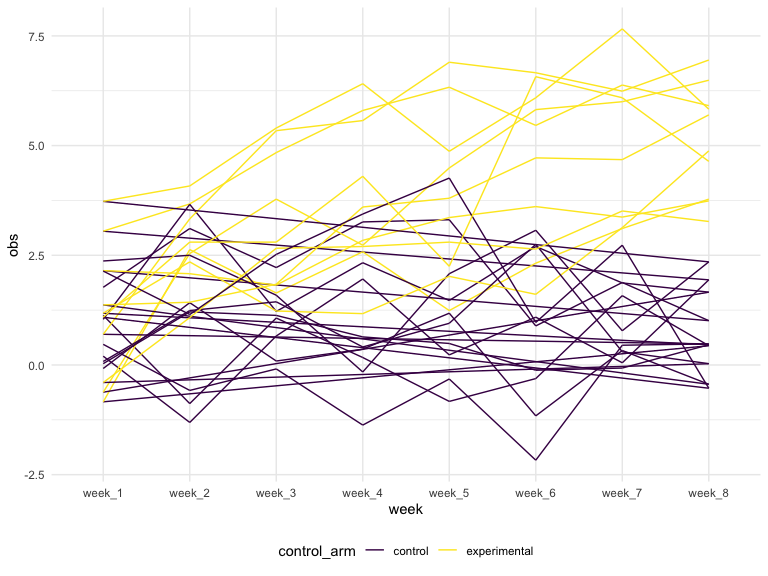
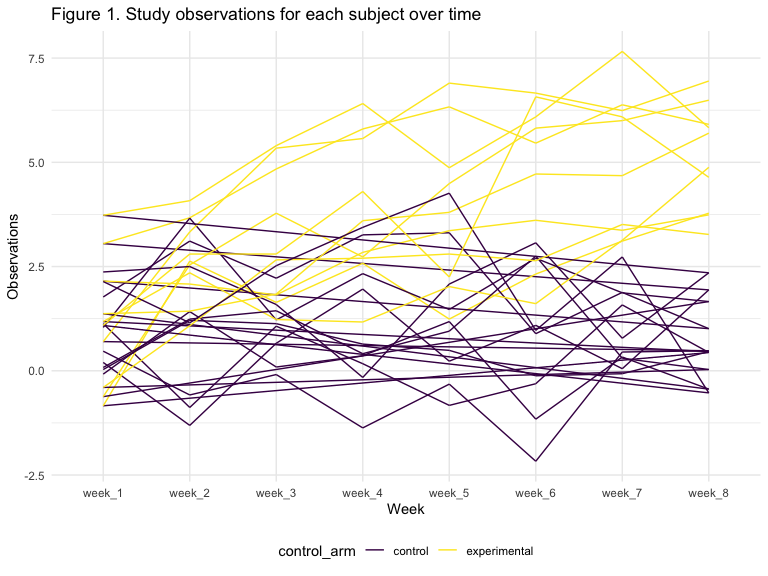
added labels to the spaghetti plot

diff --git a/p8105_hw5_lk2761.md b/p8105_hw5_lk2761.md
@@ -81,7 +81,10 @@ observations for each subject over time.
 study_df %>%
   group_by(control_arm, subject_id) %>%
   ggplot(aes(x = week, y = obs, group = subject_id, color = control_arm)) +
-  geom_path()
+  geom_path() + 
+  labs(title = "Figure 1. Study observations for each subject over time",
+       x = "Week",
+       y = "Observations")
 ```
 
 <img src="p8105_hw5_lk2761_files/figure-gfm/unnamed-chunk-6-1.png" width="90%" />
